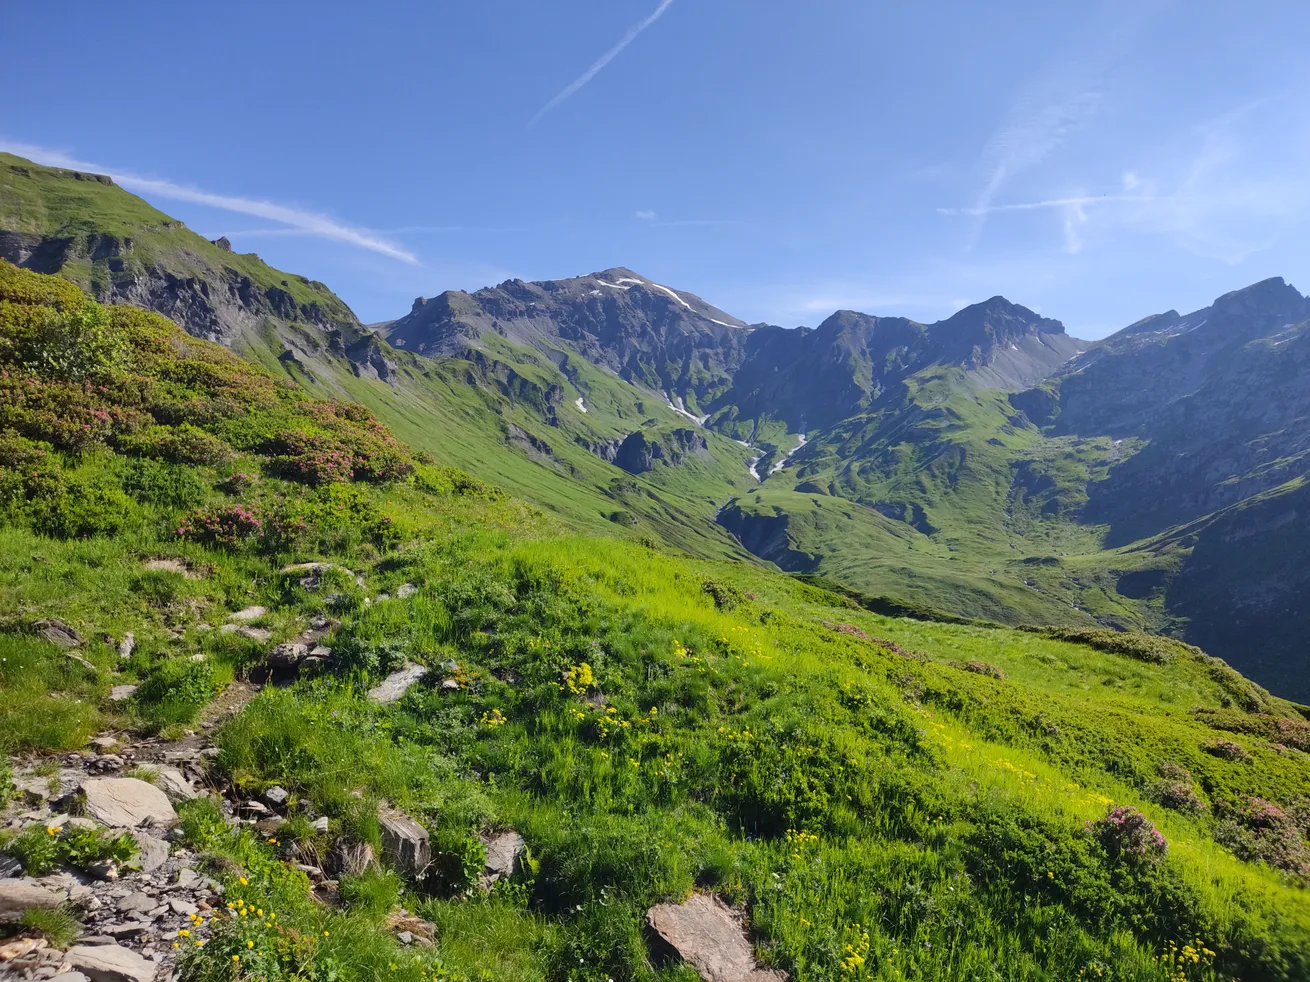
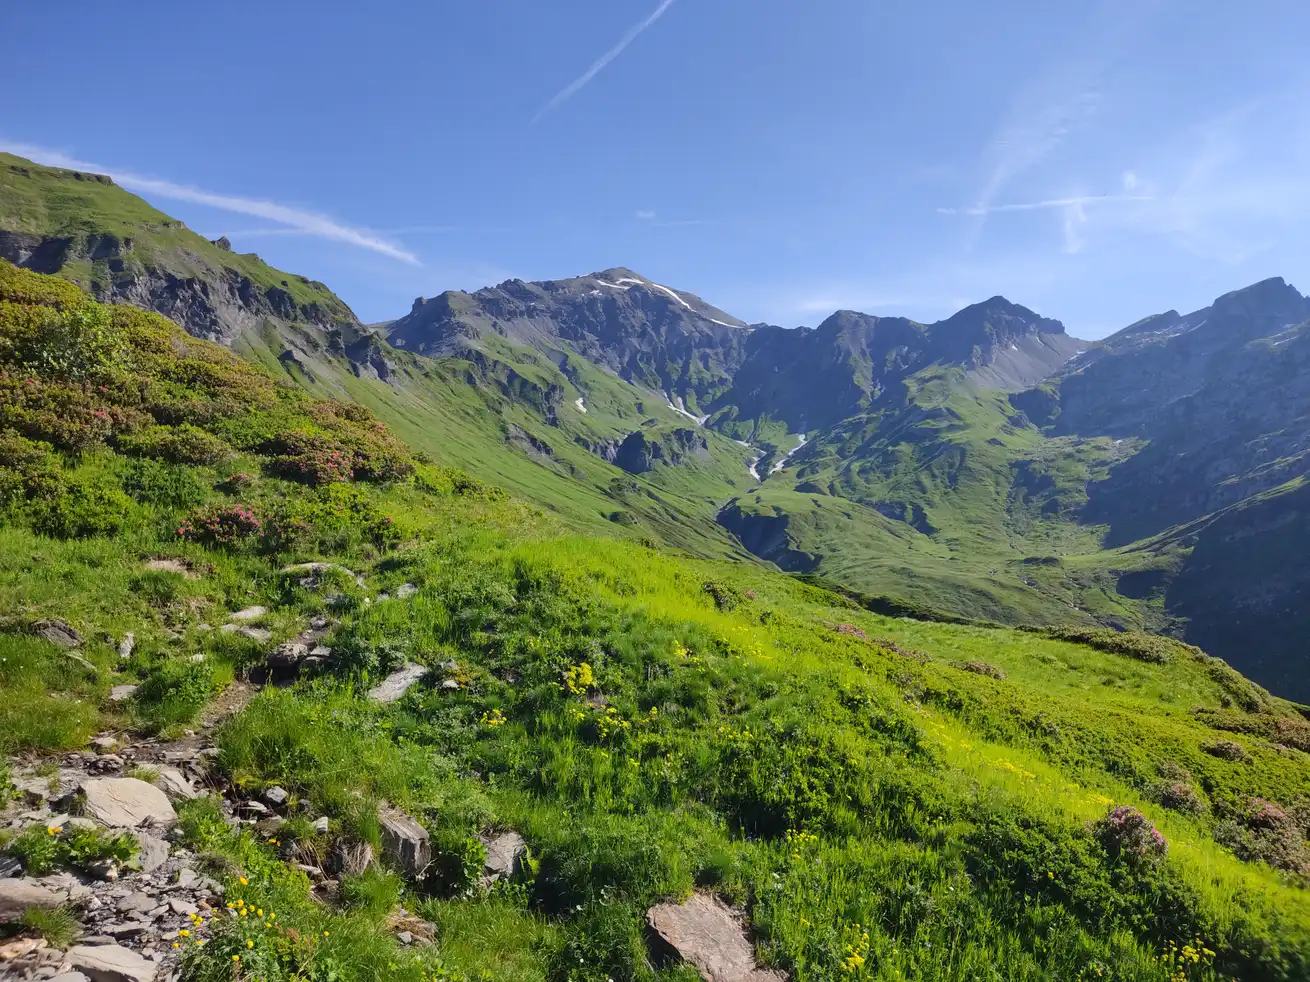
Delete unnecessary image files and reduced size of images

diff --git a/Portfolio/src/components/imageRender/imgWithFallback.jsx b/Portfolio/src/components/imageRender/imgWithFallback.jsx
@@ -1,7 +1,7 @@
 import { useEffect, useState } from "react";
 import PropTypes from "prop-types";
 
-// !!!! carefull the loading attribute is for img tag not related to setLoading
+// !!!! carefull the loading attribute is for img tag NOT related to setLoading
 export default function ImgWithFallback({
   src,
   fallback,
